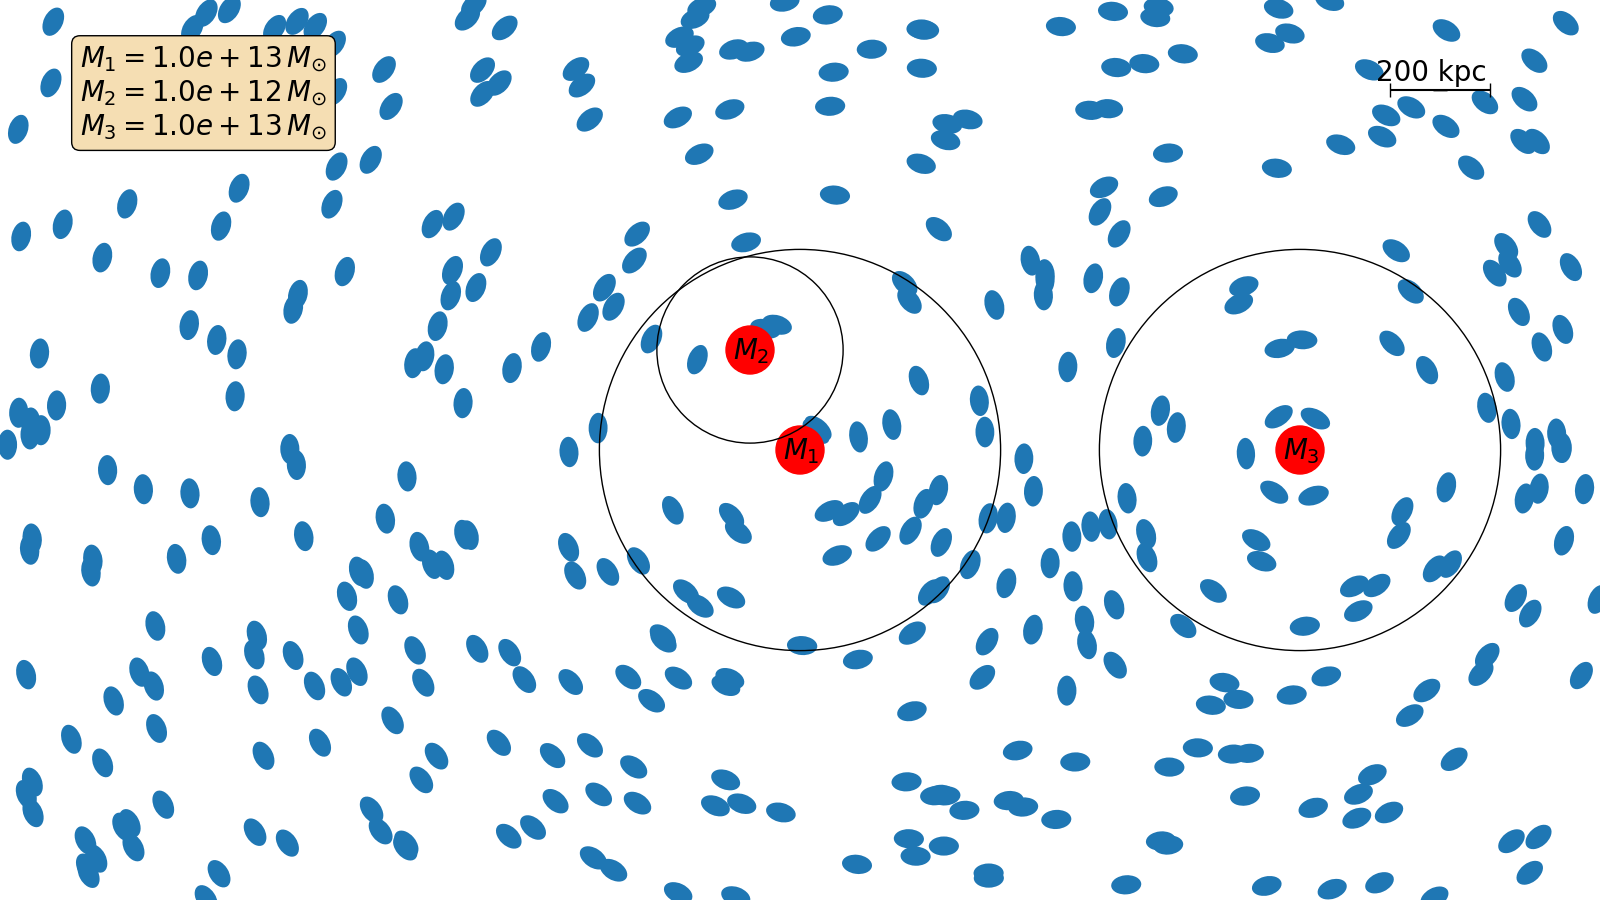
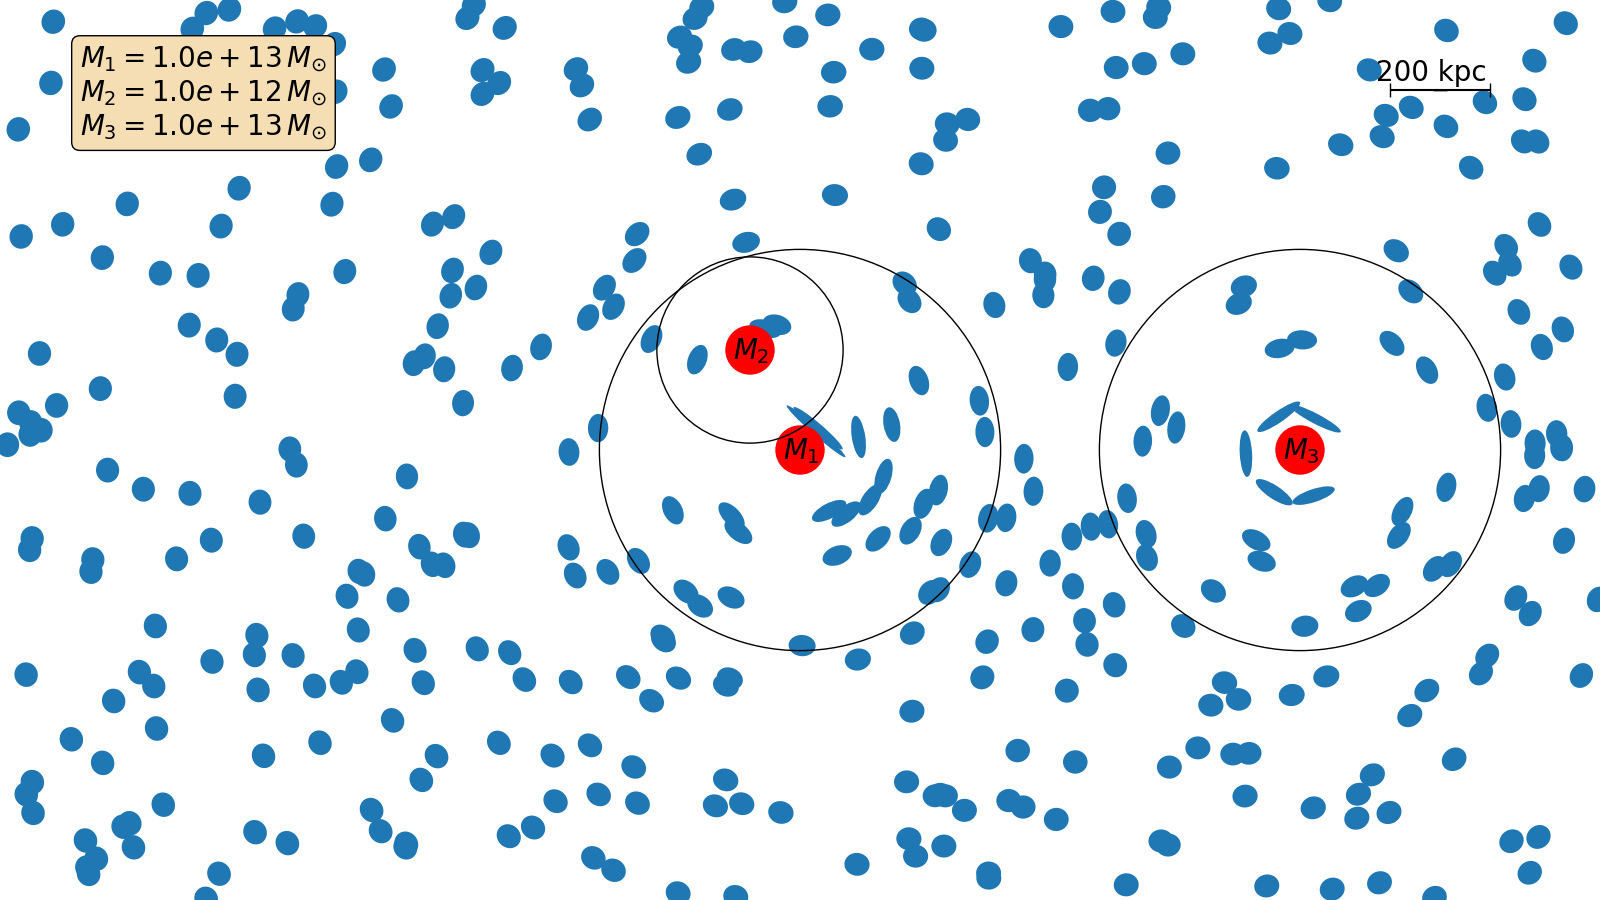
using more meaningful shapes

diff --git a/examples/make_three_halos_movie.py b/examples/make_three_halos_movie.py
@@ -90,7 +90,7 @@ for frameno in range(nframes):
     
     # lensing-induced ellipticity
     q = (1. - kappa - gamma)/(1. - kappa + gamma)
-    crazy_q = 0.8*q # enhanced ellipticity
+    crazy_q = 1. - 10.*(1.-q) # enhanced ellipticity
     
     ncirc = 101
     phi_circ = 2.*np.pi*np.linspace(0., 1., ncirc)

diff --git a/examples/plot_three_halos_shapes.py b/examples/plot_three_halos_shapes.py
@@ -66,7 +66,7 @@ gamma_pa[gamma_pa<0.] += 2.*np.pi
 
 # lensing-induced ellipticity
 q = (1. - kappa - gamma)/(1. - kappa + gamma)
-crazy_q = 0.8*q # enhanced ellipticity
+crazy_q = 1. - 10.*(1.-q) # enhanced ellipticity
 
 ncirc = 101
 phi_circ = 2.*np.pi*np.linspace(0., 1., ncirc)
